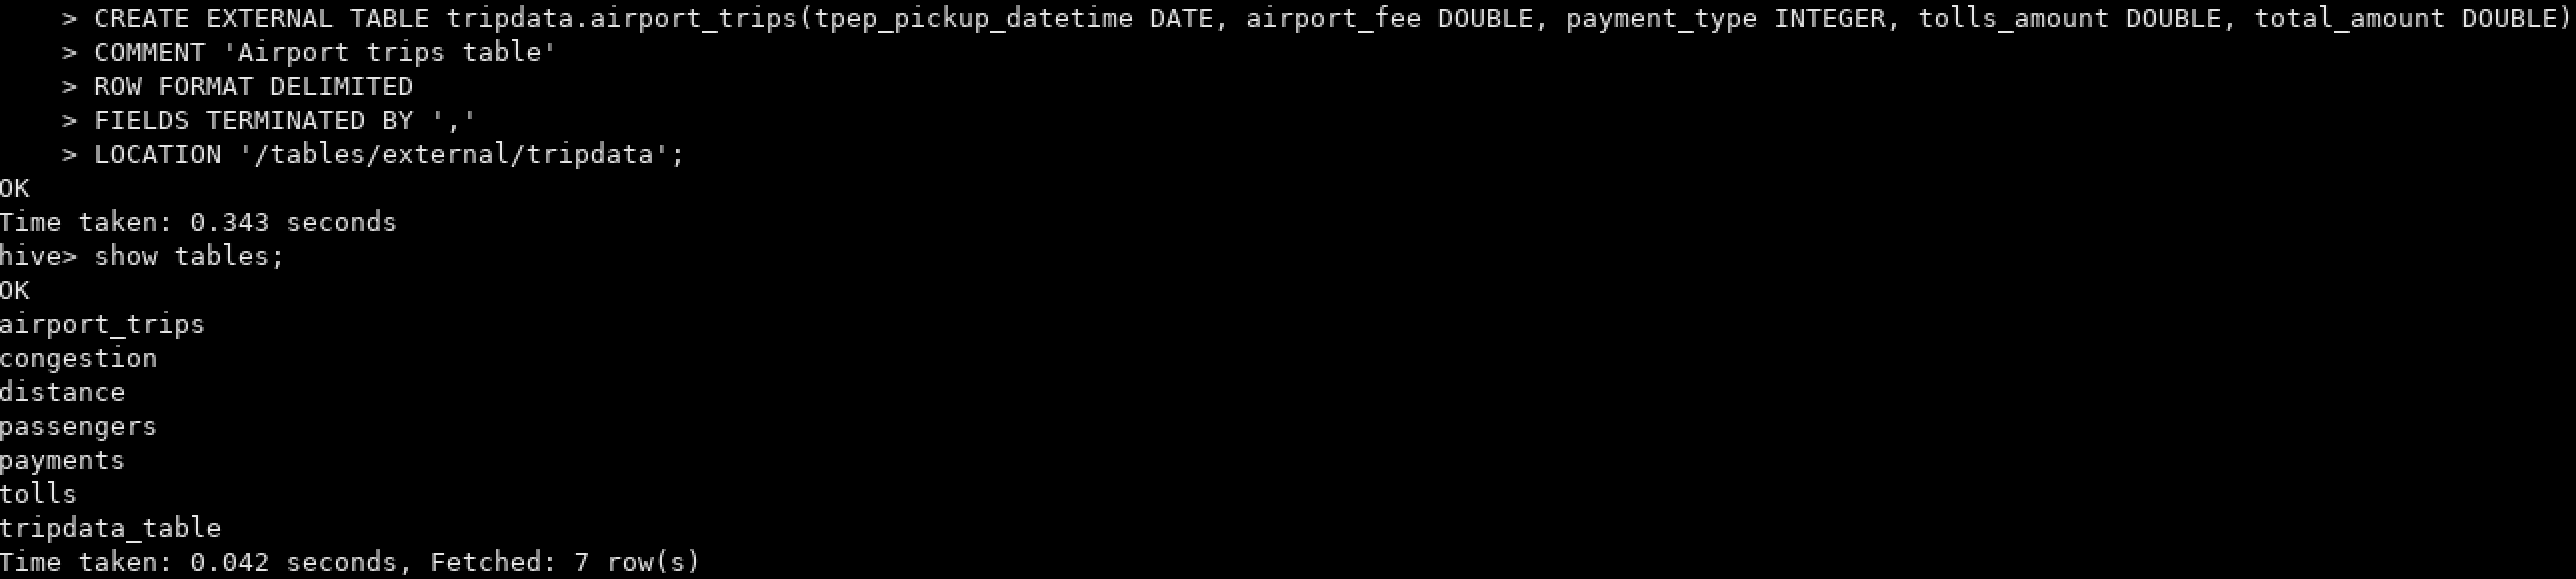
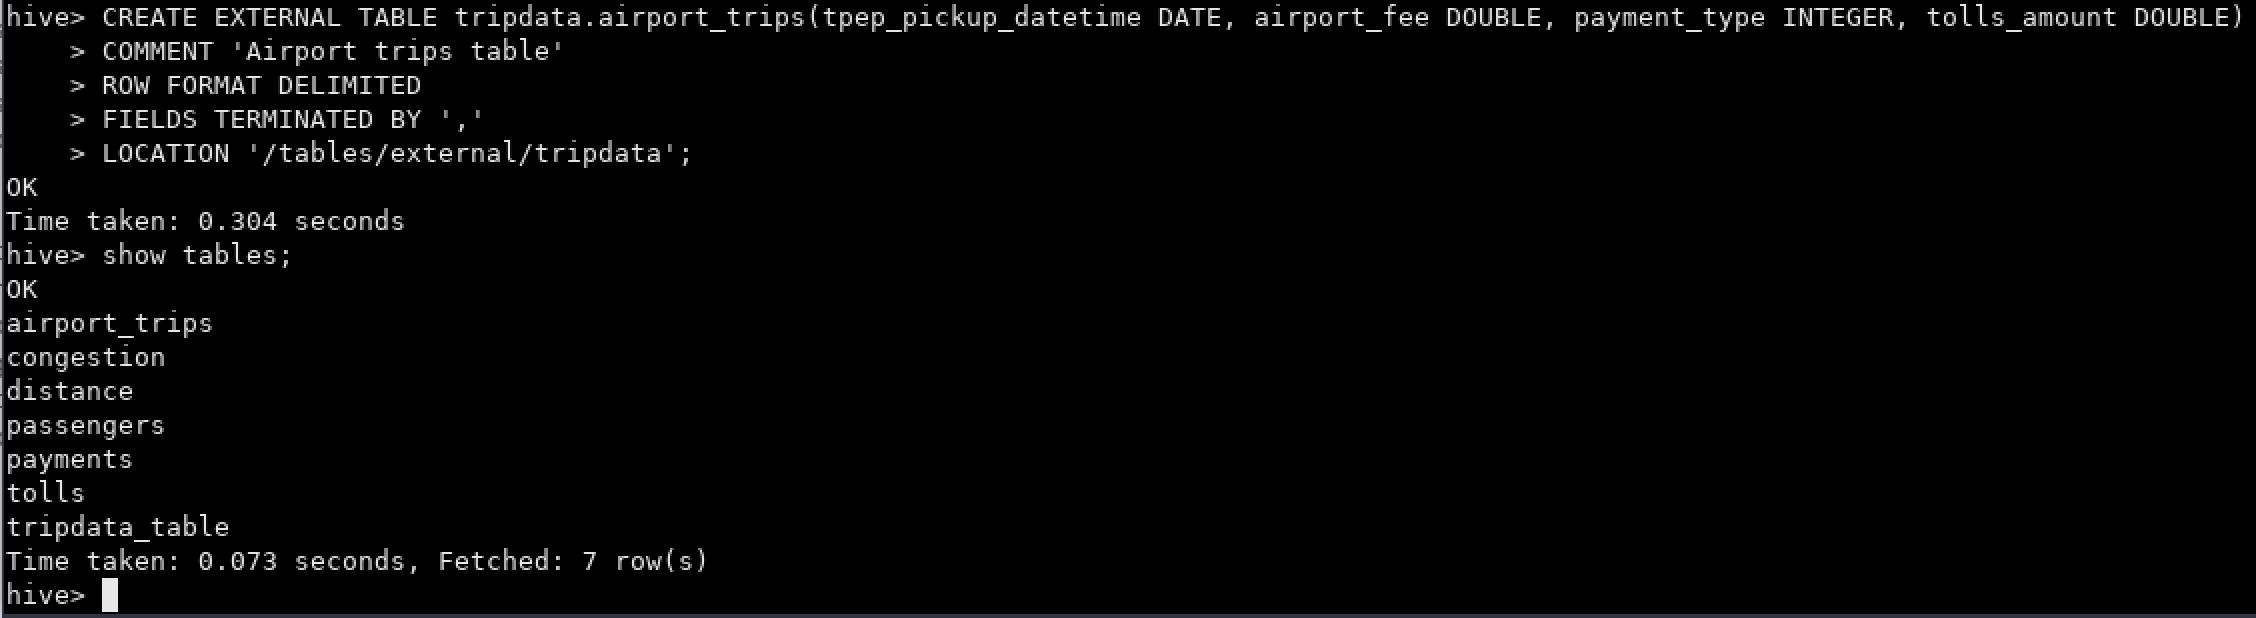
Added data

Changed region(s): [[0.0, 0.0, 1.0, 1.0], [0.2793, 0.9016, 0.3103, 0.9326]]

diff --git a/Clase_07/transform_tripdata.py b/Clase_07/transform_tripdata.py
@@ -1,0 +1,55 @@
+from pyspark.context import SparkContext
+from pyspark.sql.session import SparkSession
+from pyspark.sql import HiveContext
+
+
+SPARK_CONTEXT = SparkContext('local')
+SPARK_SESSION = SparkSession(SPARK_CONTEXT)
+HIVE_CONTEXT = HiveContext(SPARK_CONTEXT)
+
+BASE_URL = "hdfs://172.17.0.2:9000/ingest"
+TRIPDATA_2021_01_PARQUET_FILE = f"{BASE_URL}/yellow_tripdata_2021-01.parquet"
+TRIPDATA_2021_02_PARQUET_FILE = f"{BASE_URL}/yellow_tripdata_2021-02.parquet"
+
+# Read tripdata parquet files
+df_tripdata_2021_01 = SPARK_SESSION.read.option('header', 'true').parquet(
+    TRIPDATA_2021_01_PARQUET_FILE
+)
+df_tripdata_2021_02 = SPARK_SESSION.read.option('header', 'true').parquet(
+    TRIPDATA_2021_02_PARQUET_FILE
+)
+
+# Print dataframes shape
+# print((df_tripdata_2021_01.count(), len(df_tripdata_2021_01.columns)))
+# print((df_tripdata_2021_02.count(), len(df_tripdata_2021_02.columns)))
+
+# Join dataframes
+df_tripdata_2021 = df_tripdata_2021_01.union(df_tripdata_2021_02)
+
+# Sort dataframe
+df_tripdata_2021 = df_tripdata_2021.sort(
+    df_tripdata_2021.tpep_pickup_datetime.asc(),
+    df_tripdata_2021.tpep_dropoff_datetime.asc(),
+)
+
+# Filter travels paid with cash
+df_tripdata_2021_filter = df_tripdata_2021.filter(
+    df_tripdata_2021.payment_type == 2
+)
+
+# Filter travels that started or ended at airports
+# Airport_fee: $1.25 for pick up only at LaGuardia and John F. Kennedy Airports
+df_tripdata_2021_filter = df_tripdata_2021_filter.filter(
+    df_tripdata_2021.airport_fee == 1.25
+)
+
+# Select columns
+df_tripdata_2021_filter = df_tripdata_2021_filter.select(
+    df_tripdata_2021_filter.tpep_pickup_datetime,
+    df_tripdata_2021_filter.airport_fee,
+    df_tripdata_2021_filter.payment_type,
+    df_tripdata_2021_filter.tolls_amount,
+)
+
+# Insert dataframe data into Hive table
+df_tripdata_2021_filter.write.insertInto("tripdata.airport_trips")

diff --git a/Clase_07/exercise_class_7_dag.py b/Clase_07/exercise_class_7_dag.py
@@ -1,0 +1,55 @@
+from airflow import DAG
+from airflow.operators.bash import BashOperator
+from airflow.operators.dummy import DummyOperator
+from airflow.utils.dates import days_ago
+
+from datetime import timedelta
+
+
+args = {
+    'owner': 'airflow',
+}
+
+# next at 2023-08-14 00:00:00
+# then at 2023-08-15 00:00:00
+# then at 2023-08-16 00:00:00
+# then at 2023-08-17 00:00:00
+# then at 2023-08-18 00:00:00
+
+
+with DAG(
+    dag_id='exercise_class_7',
+    default_args=args,
+    schedule_interval='0 0 * * *',
+    start_date=days_ago(2),
+    dagrun_timeout=timedelta(minutes=60),
+    tags=['edvai', 'data_engineer', 'airflow'],
+    params={'example_key': 'example_value'},
+) as dag:
+    start_process = DummyOperator(
+        task_id='start_process',
+    )
+
+    ingest_data = BashOperator(
+        task_id='ingest_data',
+        bash_command='/usr/bin/sh /home/hadoop/scripts/ingest_2.sh ',
+    )
+
+    transform_data = BashOperator(
+        task_id='transform_data',
+        bash_command=(
+            "ssh hadoop@172.17.0.2 /home/hadoop/spark/bin/spark-submit "
+            "--files /home/hadoop/hive/conf/hive-site.xml "
+            "/home/hadoop/scripts/transform_tripdata.py "
+        )
+    )
+
+    finish_process = DummyOperator(
+        task_id='finish_process',
+    )
+
+    start_process >> ingest_data >> transform_data >> finish_process
+
+
+if __name__ == "__main__":
+    dag.cli()

diff --git a/Clase_07/README.md b/Clase_07/README.md
@@ -12,10 +12,10 @@ https://www.nyc.gov/assets/tlc/downloads/pdf/data_dictionary_trip_records_yellow
 ### Ejercicio 1
 
 En Hive, crear la siguiente tabla (externa) en la base de datos `tripdata`:
-A. `airport_trips` (tpep_pickup_datetime DATE, airport_fee DOUBLE, payment_type INTEGER, tolls_amount DOUBLE, total_amount DOUBLE)
+A. `airport_trips` (tpep_pickup_datetime DATE, airport_fee DOUBLE, payment_type INTEGER, tolls_amount DOUBLE)
 
 ```
-CREATE EXTERNAL TABLE tripdata.airport_trips(tpep_pickup_datetime DATE, airport_fee DOUBLE, payment_type INTEGER, tolls_amount DOUBLE, total_amount DOUBLE)
+CREATE EXTERNAL TABLE tripdata.airport_trips(tpep_pickup_datetime DATE, airport_fee DOUBLE, payment_type INTEGER, tolls_amount DOUBLE)
 COMMENT 'Airport trips table'
 ROW FORMAT DELIMITED
 FIELDS TERMINATED BY ','
@@ -55,13 +55,33 @@ hdfs dfs -put /home/hadoop/landing/yellow_tripdata_2021-02.parquet /ingest
 
 ![image_04](./img/img04.png)
 
+* Ubicación del archivo: `/home/hadoop/scripts`
+* Cambiar permisos del archivo con: `chmod 777 ingest_2.sh`
+
 
 ### Ejercicio 4
 
 Crear un archivo `.py` que permita, mediante Spark, crear un dataframe uniendo los viajes del mes 01 y mes 02 del año 2021 y luego insertar en la tabla `airport_trips` los viajes que tuvieron como inicio o destino aeropuertos, que hayan pagado con dinero.
 
+* Archivo creado: `transform_tripdata.py`
+* Ubicación del archivo: `/home/hadoop/scripts`
+* Cambiar permisos del archivo con: `chmod 777 transform_tripdata.py`
+
+![image_05](./img/img05.png)
+
+
 ### Ejercicio 5
 
-Realizar un proceso automático en Airflow que orqueste los archivos creados en los puntos 3 y 4.
-
+Realizar un proceso automático en Airflow que orqueste los archivos creados en los puntos 3 y 4.  
 Correrlo y mostrar una captura de pantalla (del DAG y del resultado en la base de datos).
+
+* Archivo creado: `exercise_class_7_dag.py`
+* Ubicación del archivo: `/home/hadoop/airflow/dags`
+
+![image_06](./img/img06.png)
+
+![image_07](./img/img07.png)
+
+![image_08](./img/img08.png)
+
+![image_09](./img/img09.png)
